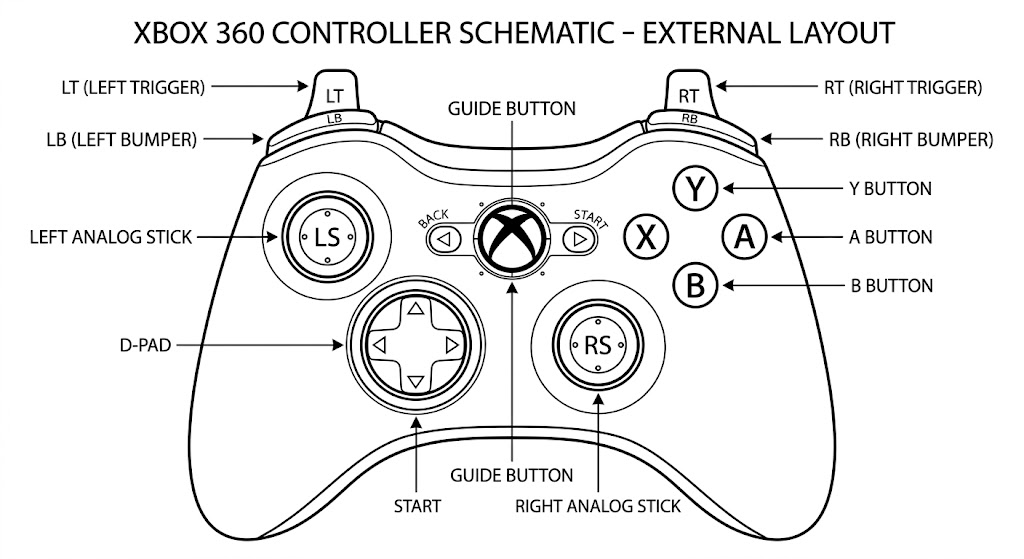
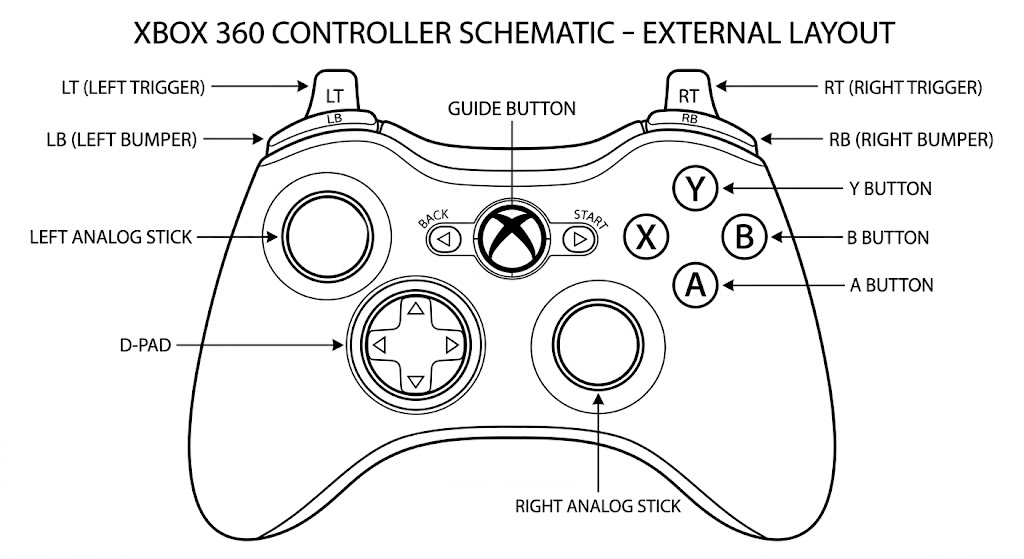
Sync overlay geometry with the redrawn schematic image
The source schematic was redrawn (plain stick circles, bigger face
buttons, corrected A/B layout). Regenerated the debug-tab copy from it
and re-measured every button/stick position in controller_view.py to
match the new artwork.

diff --git a/controller_view.py b/controller_view.py
@@ -37,27 +37,27 @@ CANVAS_BG = "#FFFFFF"
 
 # (shape, x1, y1, x2, y2) read off the native 1024x559 source image.
 _NATIVE_GEOMETRY = {
-    "LT": ("rect", 300, 60, 360, 112),
-    "RT": ("rect", 664, 60, 724, 112),
-    "LEFT_SHOULDER": ("rect", 258, 108, 390, 142),
-    "RIGHT_SHOULDER": ("rect", 634, 108, 766, 142),
-    "Y": ("oval", 677, 167, 715, 205),
-    "X": ("oval", 625, 212, 669, 256),
-    "B": ("oval", 725, 212, 769, 256),
-    "A": ("oval", 677, 260, 717, 300),
-    "GUIDE": ("oval", 469, 188, 557, 276),
-    "BACK": ("oval", 430, 223, 460, 253),
-    "START": ("oval", 566, 223, 596, 253),
-    "DPAD_UP": ("oval", 399, 292, 431, 324),
-    "DPAD_DOWN": ("oval", 399, 366, 431, 398),
-    "DPAD_LEFT": ("oval", 365, 329, 397, 361),
-    "DPAD_RIGHT": ("oval", 433, 329, 465, 361),
+    "LT": ("rect", 290, 55, 345, 115),
+    "RT": ("rect", 660, 55, 715, 115),
+    "LEFT_SHOULDER": ("rect", 250, 115, 390, 150),
+    "RIGHT_SHOULDER": ("rect", 630, 115, 770, 150),
+    "Y": ("oval", 661, 160, 721, 220),
+    "X": ("oval", 605, 210, 665, 270),
+    "B": ("oval", 717, 210, 777, 270),
+    "A": ("oval", 661, 260, 721, 320),
+    "GUIDE": ("oval", 471, 194, 551, 274),
+    "BACK": ("oval", 410, 213, 450, 253),
+    "START": ("oval", 562, 215, 602, 255),
+    "DPAD_UP": ("oval", 395, 294, 427, 326),
+    "DPAD_DOWN": ("oval", 395, 368, 427, 400),
+    "DPAD_LEFT": ("oval", 361, 331, 393, 363),
+    "DPAD_RIGHT": ("oval", 429, 331, 461, 363),
 }
 
 # (cx, cy, radius) read off the same native image.
 _STICKS_NATIVE = {
-    "left": (327, 236, 59),
-    "right": (600, 345, 59),
+    "left": (331, 248, 49),
+    "right": (590, 355, 50),
 }
 
 
